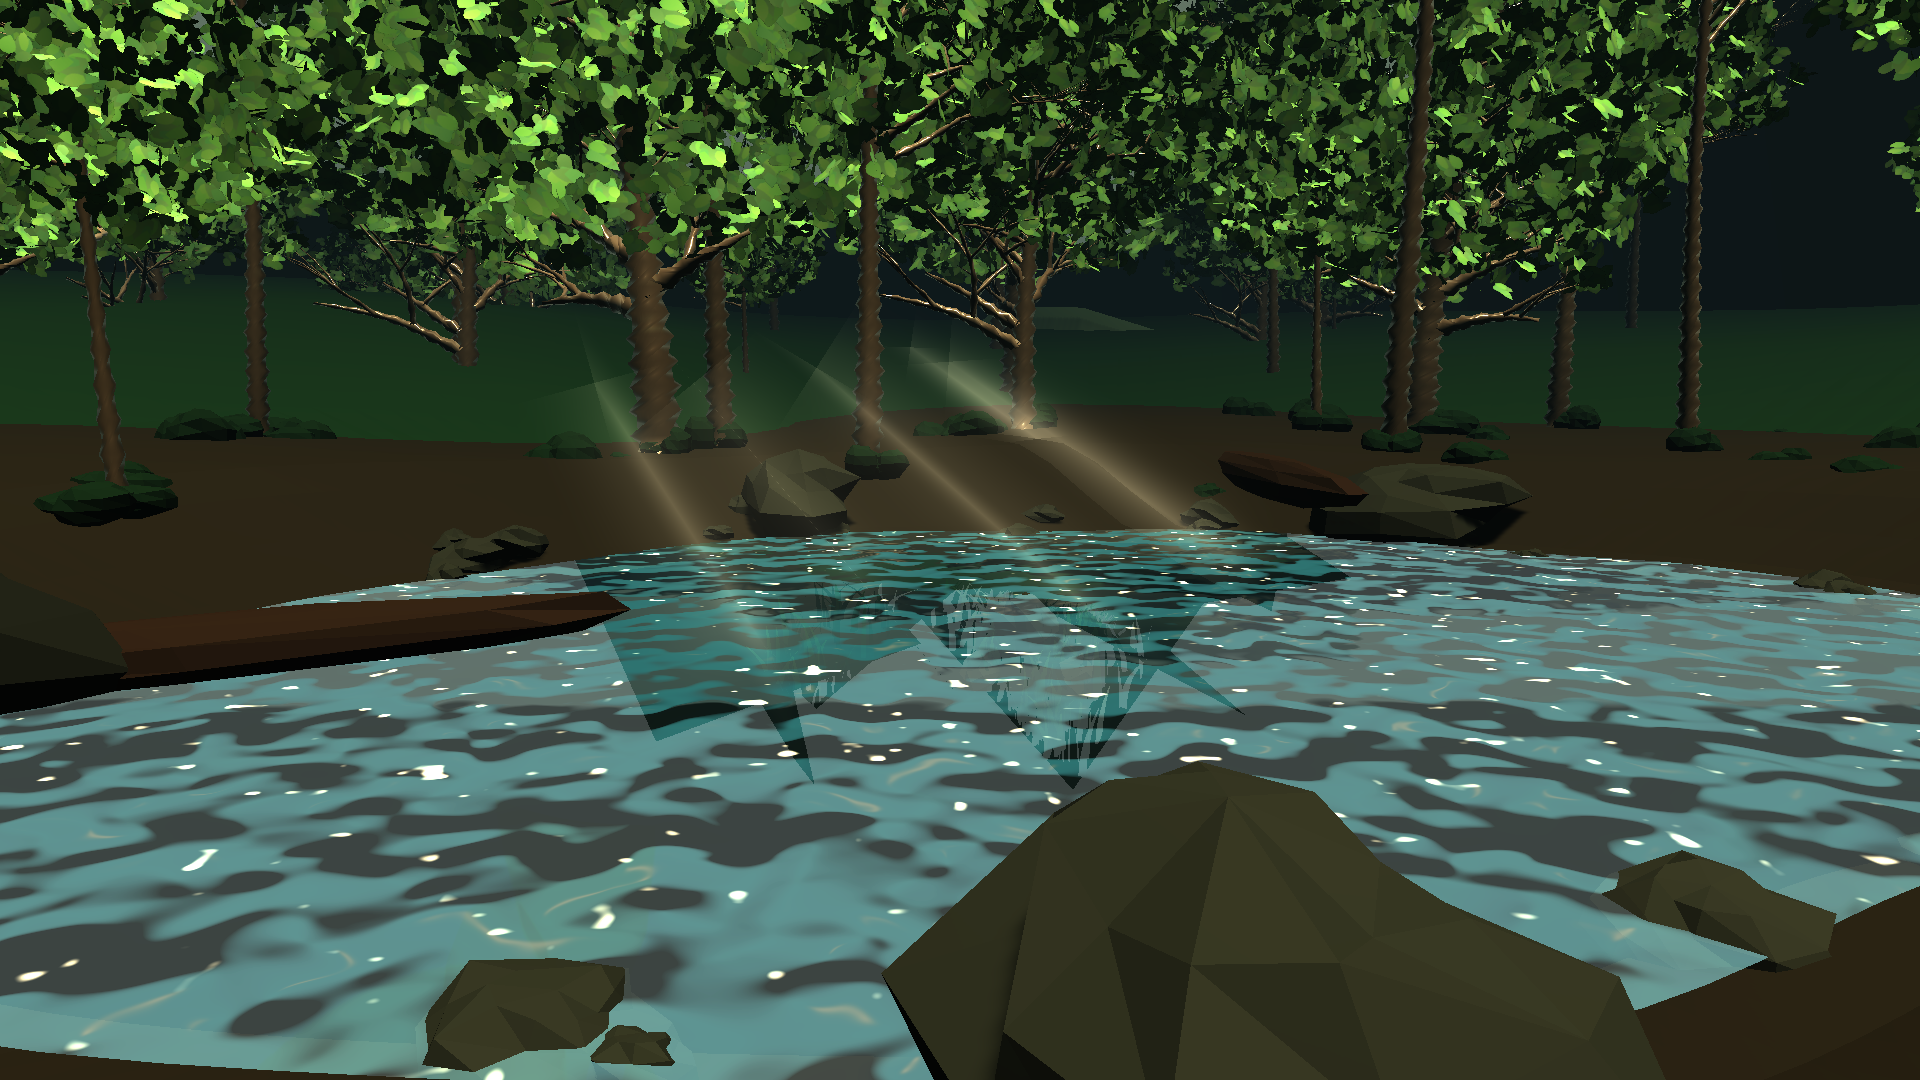
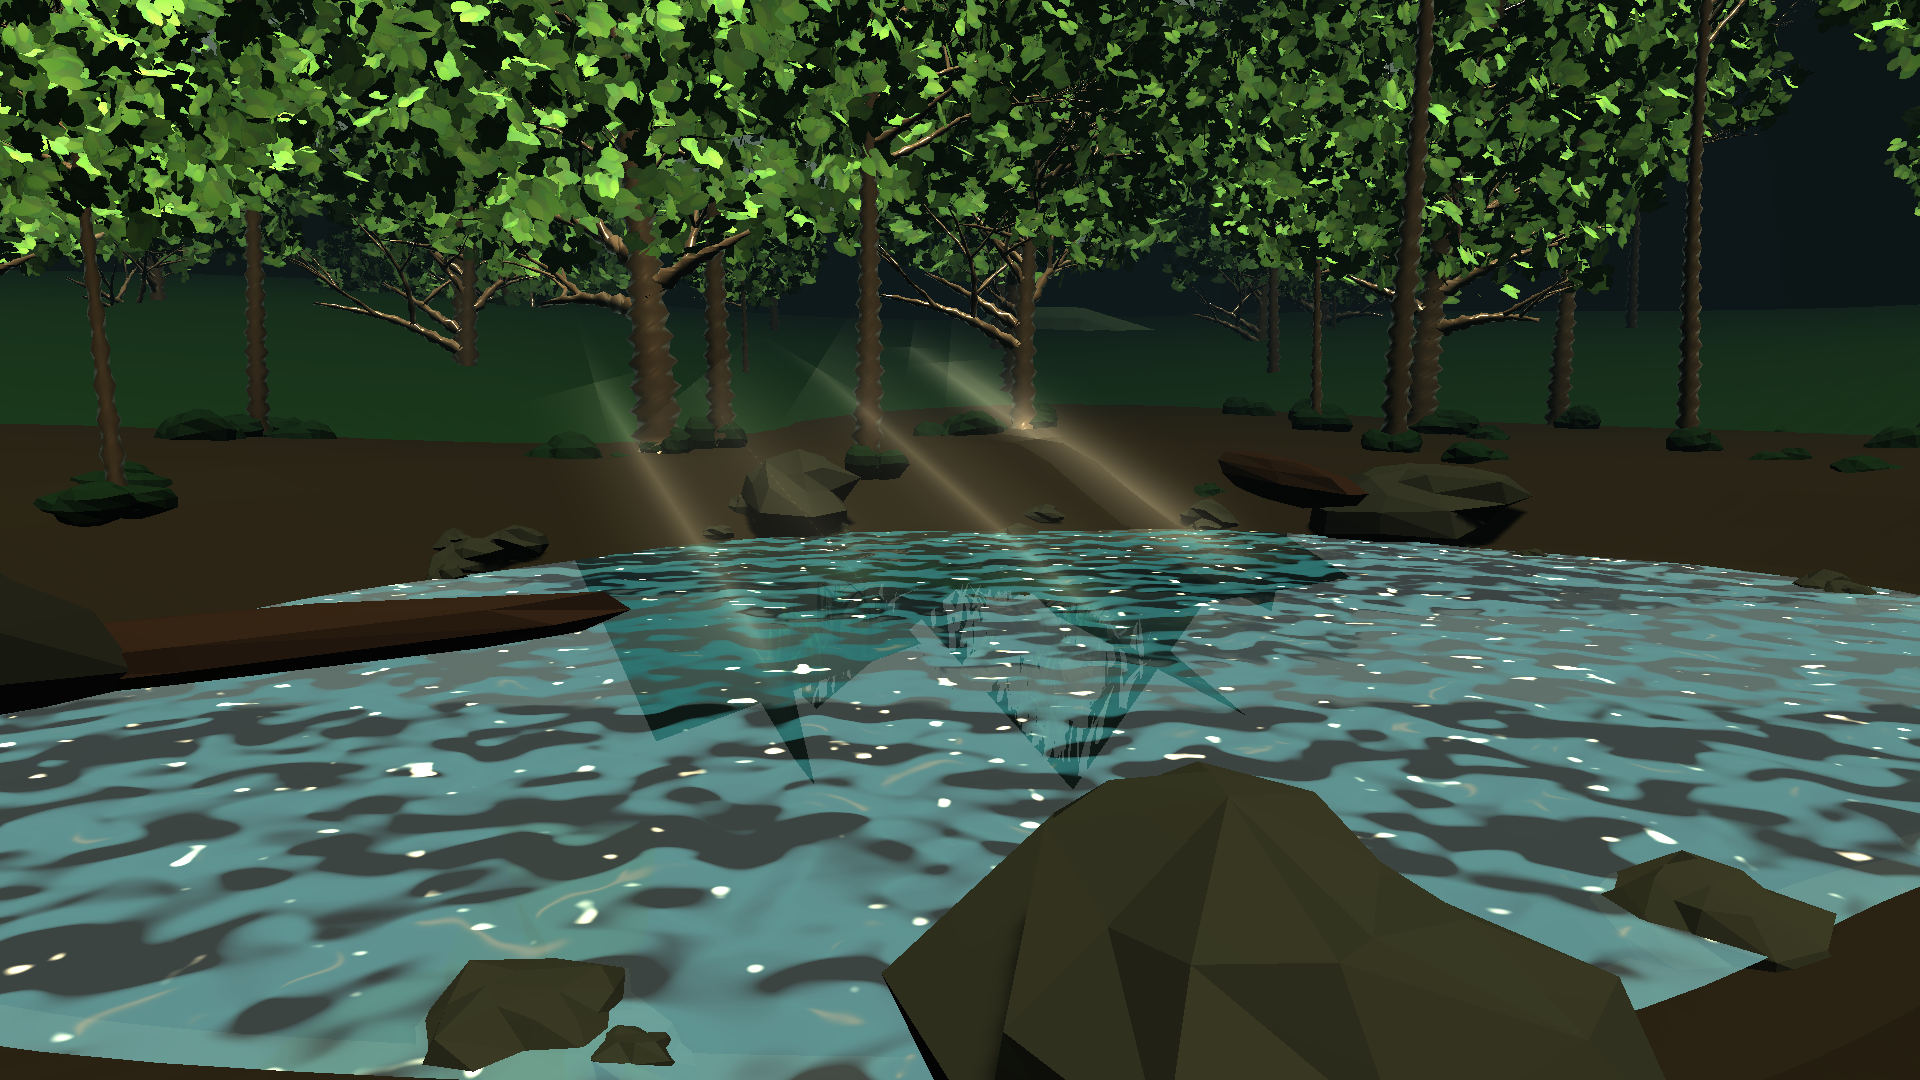
chore(R70): Pond 灰斑定位=体散射RayMarch(已还原不改). ①逐项关闭测试(水面斑块度): 基线19.11 / 平面反射关21.96(更花) / **体散射关11.79(-38%)** / 细节法线关19.05(无变化) => 灰斑来自体散射 ②降强度是纯权衡: 0.50->19.11, 0.35->16.40, 0.25->14.76, 0->11.79, 但亮度 52.8->49.9->47.9->43.1 => Pond 本来就暗(54), 再压会变死水, 保持原样并还原 ③记档: _ScatterSteps/_ScatterMaxDist 改成24/3m **画

diff --git a/Assets/Editor/R70Setup.cs b/Assets/Editor/R70Setup.cs
@@ -1,0 +1,92 @@
+// R70Setup.cs — R70：Pond 水面"大块灰斑"逐项排除
+//
+// 症状：PondScene 水面有大片灰蓝色斑块（像脏抹布），不像水。
+// 候选（按可疑度）：平面反射平面、折射偏移、体散射 RayMarch、细节法线。
+// 本文件把每一项逐个关掉，配合 Seq/95 采集做 A/B。
+#if UNITY_EDITOR
+using System.Collections.Generic;
+using System.IO;
+using UnityEditor;
+using UnityEngine;
+
+namespace WaterProject.EditorTools
+{
+    public static class R70Setup
+    {
+        static void P(string s)
+            => File.AppendAllText(Path.Combine(Application.dataPath, "../Logs/water_probe.txt"), s);
+
+        static void Set(string prop, float v, string tag)
+        {
+            var seen = new HashSet<Material>();
+            int n = 0;
+            foreach (var r in Object.FindObjectsByType<Renderer>(FindObjectsSortMode.None))
+            {
+                var m = r.sharedMaterial;
+                if (m == null || !seen.Add(m) || !m.HasProperty(prop)) continue;
+                if (!EditorPrefs.HasKey("R70." + prop)) EditorPrefs.SetFloat("R70." + prop, m.GetFloat(prop));
+                m.SetFloat(prop, v);
+                EditorUtility.SetDirty(m);
+                n++;
+            }
+            P($"R70/{tag} {prop} = {v}（{n} 个材质）\n");
+        }
+
+        [MenuItem("Tools/R70/90 平面反射=0")]
+        public static void PlanarOff() => Set("_PlanarStrength", 0f, "90");
+
+        [MenuItem("Tools/R70/91 折射=0")]
+        public static void RefractOff() => Set("_RefractStrength", 0f, "91");
+
+        [MenuItem("Tools/R70/92 体散射=0(模式也关)")]
+        public static void ScatterOff()
+        {
+            Set("_ScatterMode", 0f, "92");
+            Set("_ScatterStrength", 0f, "92");
+        }
+
+        [MenuItem("Tools/R70/93 细节法线=0")]
+        public static void DetailOff() => Set("_DetailStrength", 0f, "93");
+
+        [MenuItem("Tools/R70/94 全部还原")]
+        public static void Restore()
+        {
+            foreach (var p in new[] { "_PlanarStrength", "_RefractStrength", "_ScatterMode", "_ScatterStrength", "_DetailStrength", "_ScatterSteps", "_ScatterMaxDist" })
+                if (EditorPrefs.HasKey("R70." + p)) Set(p, EditorPrefs.GetFloat("R70." + p), "94");
+            P("R70/94 已还原\n");
+        }
+
+        [MenuItem("Tools/R70/96 体散射步数=24")]
+        public static void ScatterSteps24() => Set("_ScatterSteps", 24f, "96");
+
+        [MenuItem("Tools/R70/97 体散射光程=3m")]
+        public static void ScatterDist3() => Set("_ScatterMaxDist", 3f, "97");
+
+        [MenuItem("Tools/R70/98 体散射步数+光程(24/3m)")]
+        public static void ScatterBoth()
+        {
+            Set("_ScatterSteps", 24f, "98");
+            Set("_ScatterMaxDist", 3f, "98");
+        }
+        [MenuItem("Tools/R70/99a 散射强度=0.35")]
+        public static void ScatterStr035() => Set("_ScatterStrength", 0.35f, "99a");
+
+        [MenuItem("Tools/R70/99b 散射强度=0.25")]
+        public static void ScatterStr025() => Set("_ScatterStrength", 0.25f, "99b");
+        [MenuItem("Tools/R70/95 探针(读当前值)")]
+        public static void Probe()
+        {
+            var seen = new HashSet<Material>();
+            foreach (var r in Object.FindObjectsByType<Renderer>(FindObjectsSortMode.None))
+            {
+                var m = r.sharedMaterial;
+                if (m == null || !seen.Add(m) || !m.HasProperty("_PlanarStrength")) continue;
+                P($"R70 PROBE {m.name} planar={m.GetFloat("_PlanarStrength"):F2} " +
+                  $"refract={m.GetFloat("_RefractStrength"):F2} " +
+                  $"scatterMode={m.GetFloat("_ScatterMode"):F0} scatterStr={m.GetFloat("_ScatterStrength"):F2} " +
+                  $"detail={m.GetFloat("_DetailStrength"):F2}\n");
+            }
+        }
+    }
+}
+#endif

diff --git a/Docs/学习路径与知识库/检测报告/R56_场景画质与采集口径.md b/Docs/学习路径与知识库/检测报告/R56_场景画质与采集口径.md
@@ -263,3 +263,34 @@ python Tools/verify/measure_many.py --write-baseline Tools/verify/baseline.json 
 | Pool | 190.1 | 68.8 | 44.0 | 0.00 |
 | **Islet** | **129.6** | 54.4 | 102.8 | **5.73** |
 | FFT | 126.9 | 60.3 | 101.4 | 0.00 |
+
+---
+
+## R70：Pond 水面灰斑 = 体散射（已定位，但**没改**，因为改了会更暗）
+
+逐项关掉测"大尺度斑块度"（水面区域 65px 模糊后的标准差）：
+
+| 关掉什么 | 水面亮度 | 细节 | 斑块度 |
+| --- | --- | --- | --- |
+| 基线 | 52.8 | 31.2 | **19.11** |
+| 平面反射 | 56.5 | 30.5 | 21.96（反而更花） |
+| **体散射** | 43.1 | 23.7 | **11.79（−38%）** |
+| 细节法线 | 52.8 | 31.1 | 19.05（无变化） |
+
+⇒ **灰斑来自体散射 RayMarch**（`_ScatterMode=2`）。
+
+再试"只降强度"：
+
+| 散射强度 | 亮度 | 斑块度 |
+| --- | --- | --- |
+| 0.50（原） | 52.8 | 19.11 |
+| 0.35 | 49.9 | 16.40 |
+| 0.25 | 47.9 | 14.76 |
+| 0（关） | 43.1 | 11.79 |
+
+**结论：这是个纯权衡**——斑块少多少，亮度就掉多少。Pond 本来就偏暗（亮度 54），
+再压散射会变成一潭死水，所以**保持原样**（`R70/94` 已还原），并记档：
+真正的解法是**换成不产生大块结构的散射模型**（或给 RayMarch 加抖动/蓝噪声），不是调强度。
+
+**副作用记录**：`_ScatterSteps` / `_ScatterMaxDist` 改成 24/3m **画面逐项不变**
+⇒ 这两个参数在该模式下不生效，别再拿它们调。
